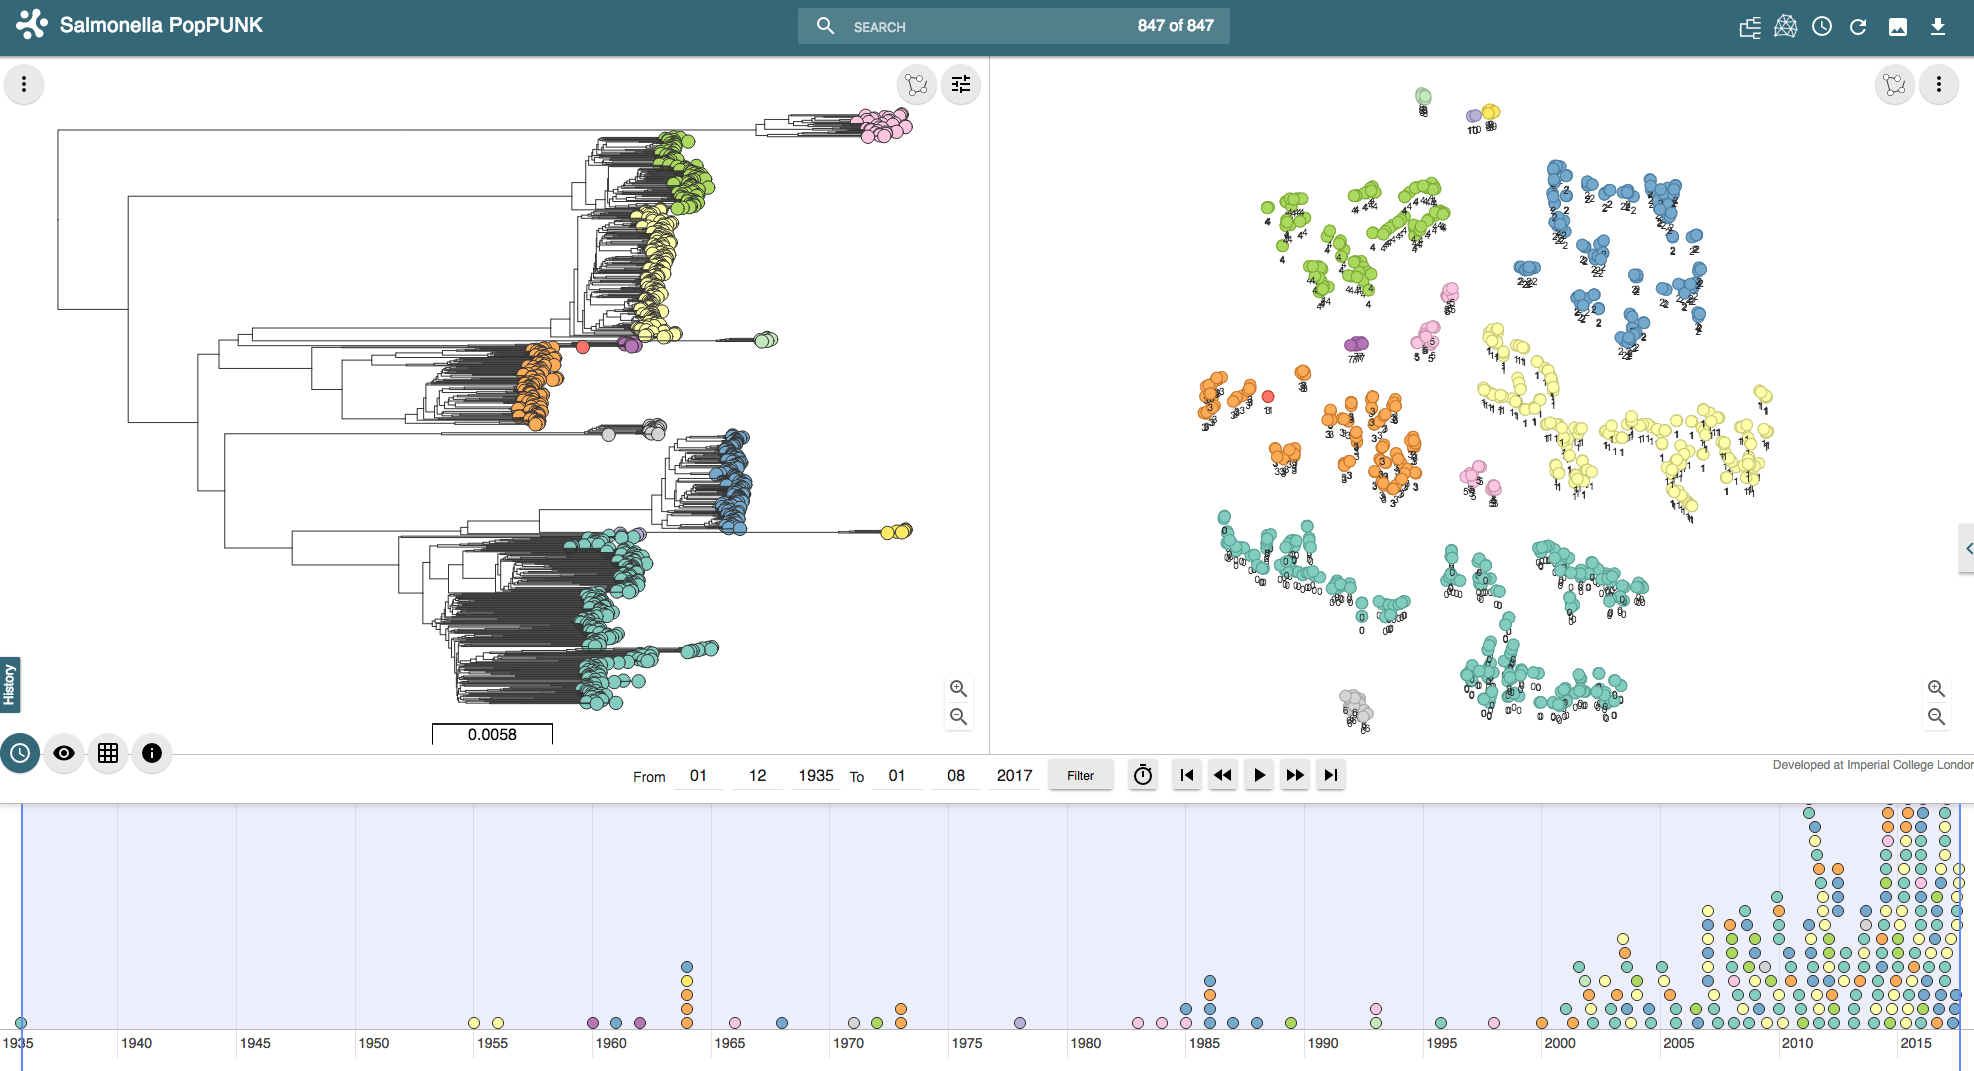
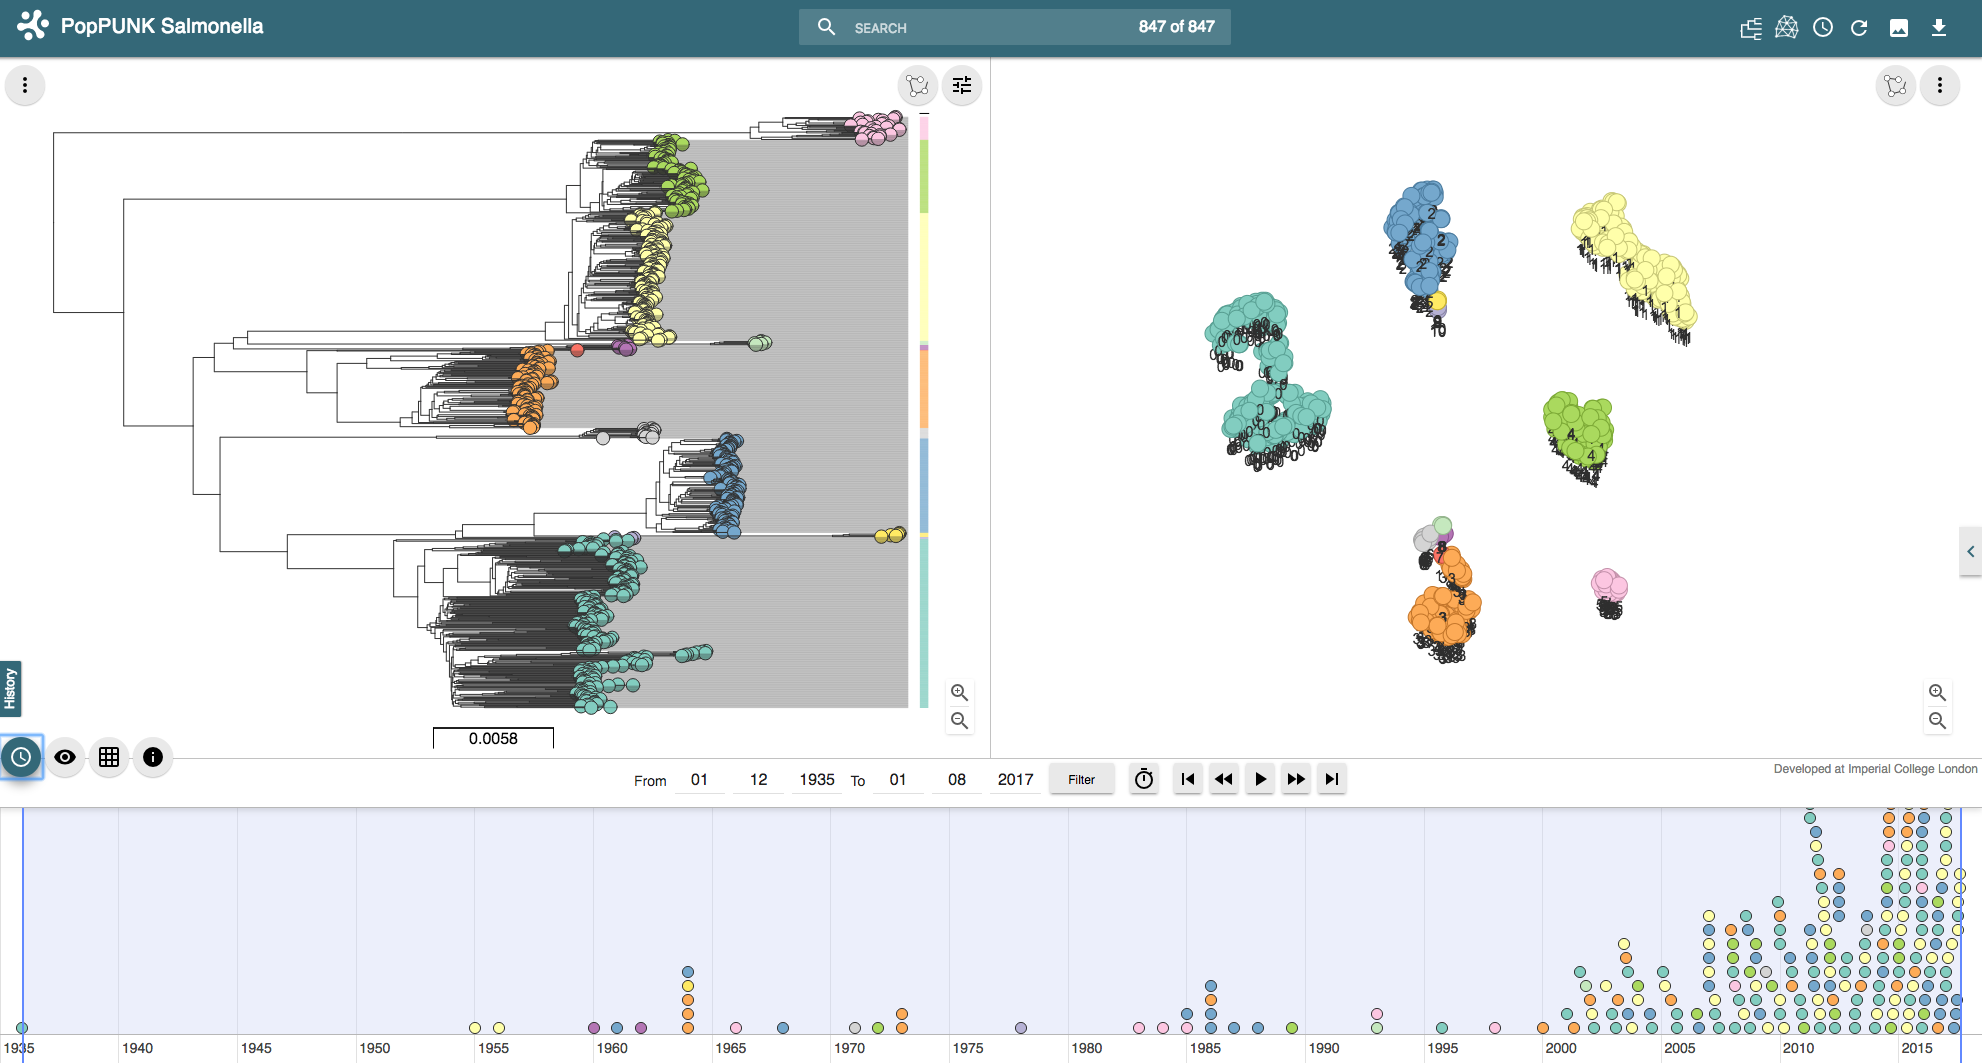
Setting perplexity (docs)

diff --git a/docs/troubleshooting.rst b/docs/troubleshooting.rst
@@ -1,6 +1,9 @@
 Troubleshooting
 ===============
 
+This page deals with common issues in running the analysis. For issues with
+installing or running the software please raise an issue on github.
+
 .. _kmer-length:
 
 Choosing the right k-mer lengths
@@ -44,4 +47,41 @@ Fine tuning model fit
 BGMM
 
 Use of cytoscape
+
+
+.. _perplexity:
+
+Setting the perplexity parameter for t-SNE
+------------------------------------------
+In t-SNE an embedding of the accessory genome distances is found which
+represents local structure of the data. Isolates with similar accessory content
+will visually appear in clusters together.
+
+The perplexity sets a guess about the number of close neighbours each point
+has, and is a trade-off between local and global structure. t-SNE is reasonably
+robust to changes in the perplexity parameter (set with ``--perplexity`` when
+creating microreact output with ``--microreact`` in the``--fit-model`` mode),
+however we would recommend trying a few values to get
+a good embedding for the accessory distances.
+
+There is a good discussion of the effect of perplexity `here <https://distill.pub/2016/misread-tsne/>`_
+and the sklearn documentation shows some examples of the effect of `changing
+perplexity <http://scikit-learn.org/stable/auto_examples/manifold/plot_t_sne_perplexity.html>`_.
+
+In the :doc:`tutorial` example, a perplexity of 30 gives clear clustering of
+the accessory genome content, condordant with the core genome structure (`data <https://microreact.org/project/Skg0j9sjz>`__):
+
+.. image:: microreact.png
+   :alt:  Microreact plot of results with perplexity = 30
+   :align: center
+
+With a lower perplexity of 5, the clustering is too loose, and the strain
+structure cannot clearly be seen (`data <https://microreact.org/project/S1RwpK9if>`__):
+
+.. image:: microreact_perplexity5.png
+   :alt:  Microreact plot of results with perplexity = 5
+   :align: center
+
+30 is a good default, but you may wish to try other values, particularly with
+larger or smaller datasets.
 

diff --git a/docs/tutorial.rst b/docs/tutorial.rst
@@ -210,7 +210,7 @@ This will create output files which can dragged and dropped into `Microreact <ht
 for visualisation of the results.
 
 Drag the files `strain_db_microreact_clusters.csv`, `strain_db_perplexity5.0_accessory_tsne`, and
-`strain_db_core_NJ_microreact.nwk` onto Microreact. For this example, the output is at https://microreact.org/project/S1RwpK9if
+`strain_db_core_NJ_microreact.nwk` onto Microreact. For this example, the output is at https://microreact.org/project/Skg0j9sjz
 (this also includes a CSV of additional metadata downloaded from EnteroBase and supplied to
 PopPUNK with ``--info-csv``).
 
@@ -219,9 +219,14 @@ PopPUNK with ``--info-csv``).
    :align: center
 
 The left panel shows the tree from the core distances, and the right panel the
-embedding of accessory distances. Differences in clustering between the two can
-be informative of separate core and accessory evolution. Tips are coloured by
-the PopPUNK inferred cluster.
+embedding of accessory distances (at perplexity 30). Differences in clustering between the two can
+be informative of separate core and accessory evolution, but in this case they
+are correlated as expected for strains. Tips are coloured by the PopPUNK inferred cluster.
+
+.. note::
+   t-SNE can be sensitive to the ``--perplexity`` parameter provided. This can
+   be re-run as necessary by changing the parameter value. Use a value between
+   5 and 50, but see :ref:`perplexity` for further discussion.
 
 Use of full-db
 ^^^^^^^^^^^^^^
